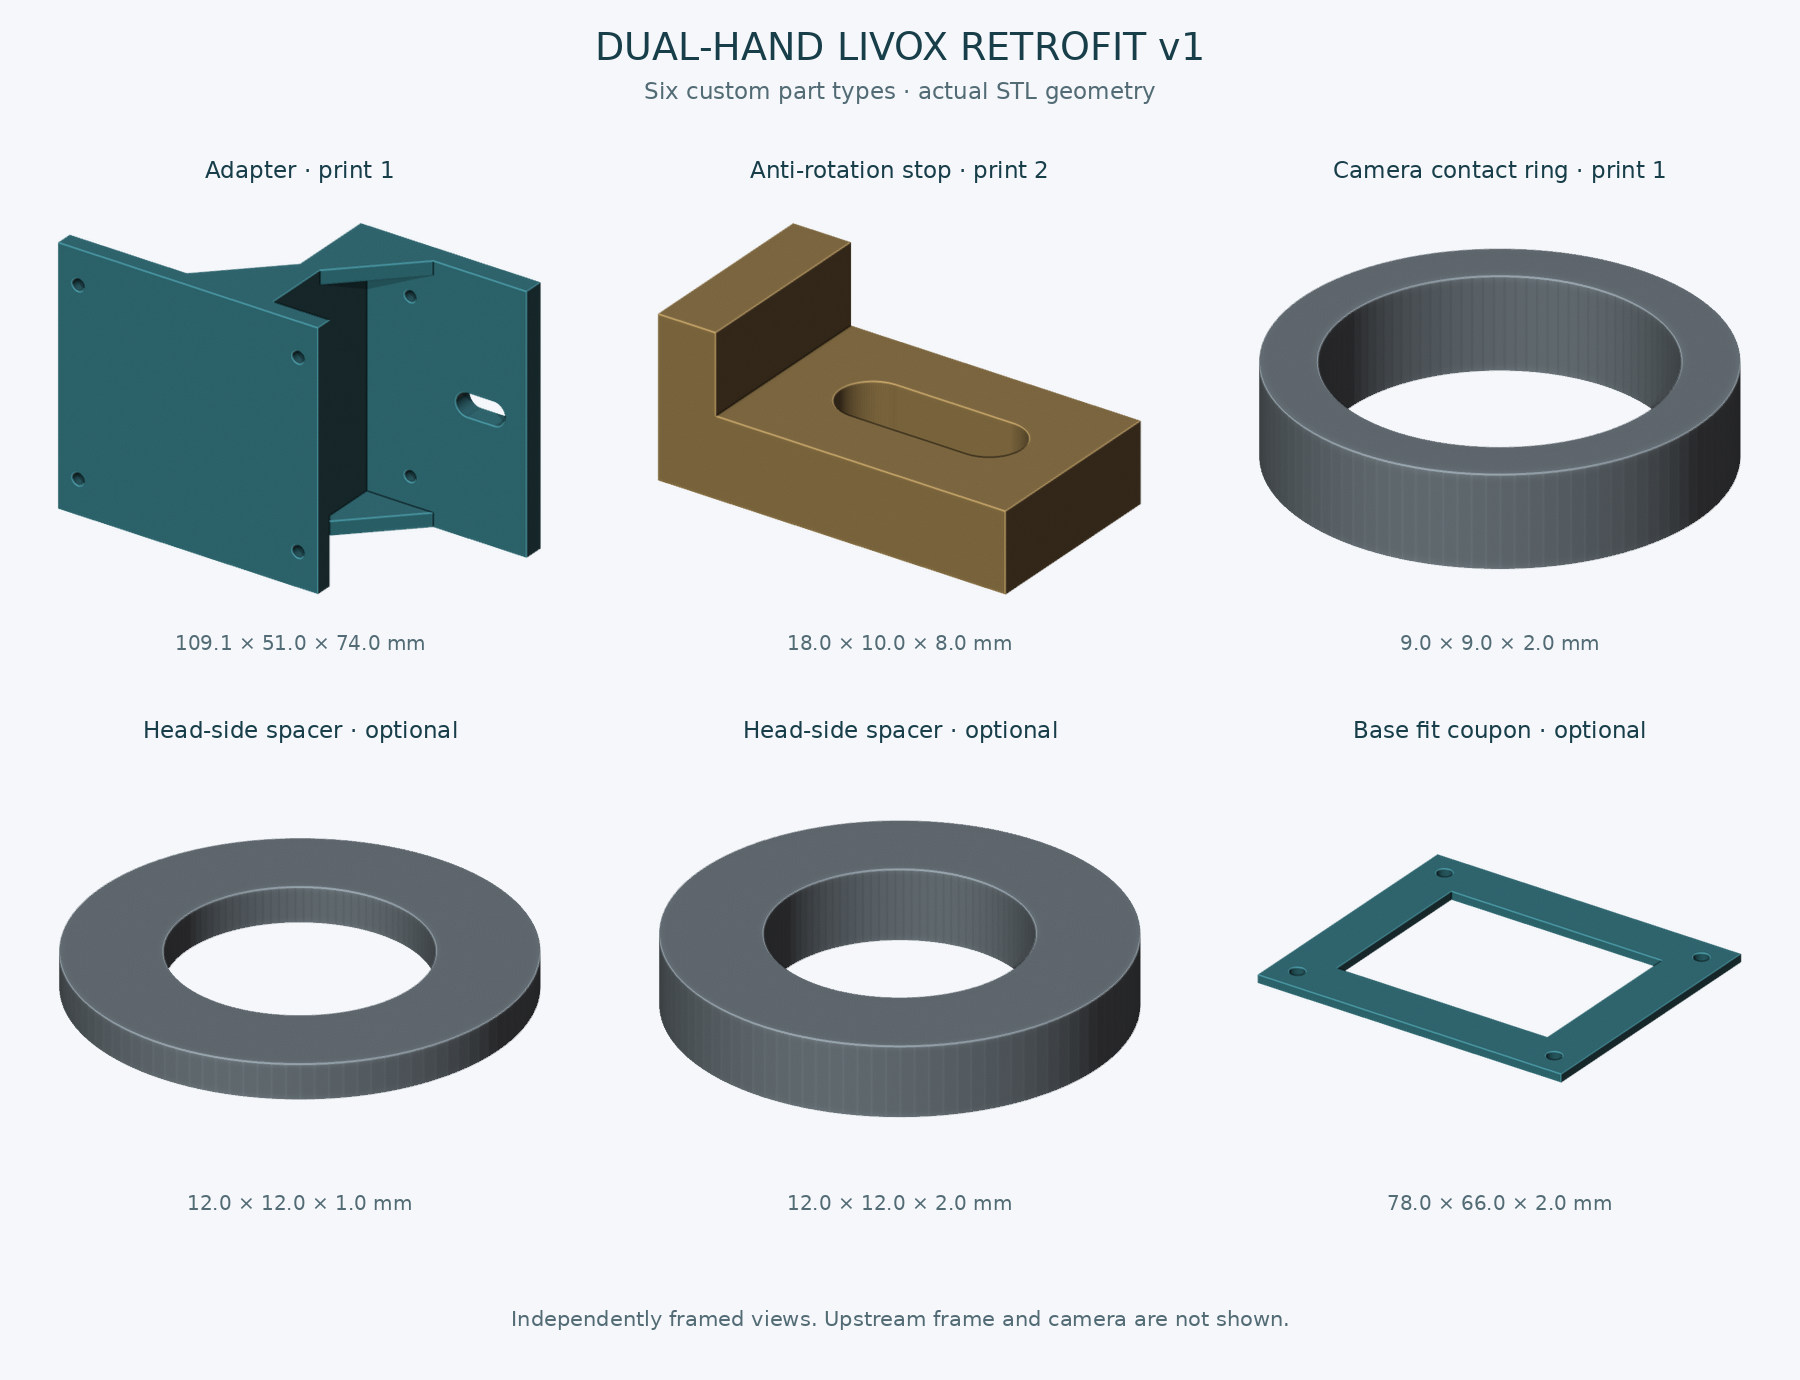
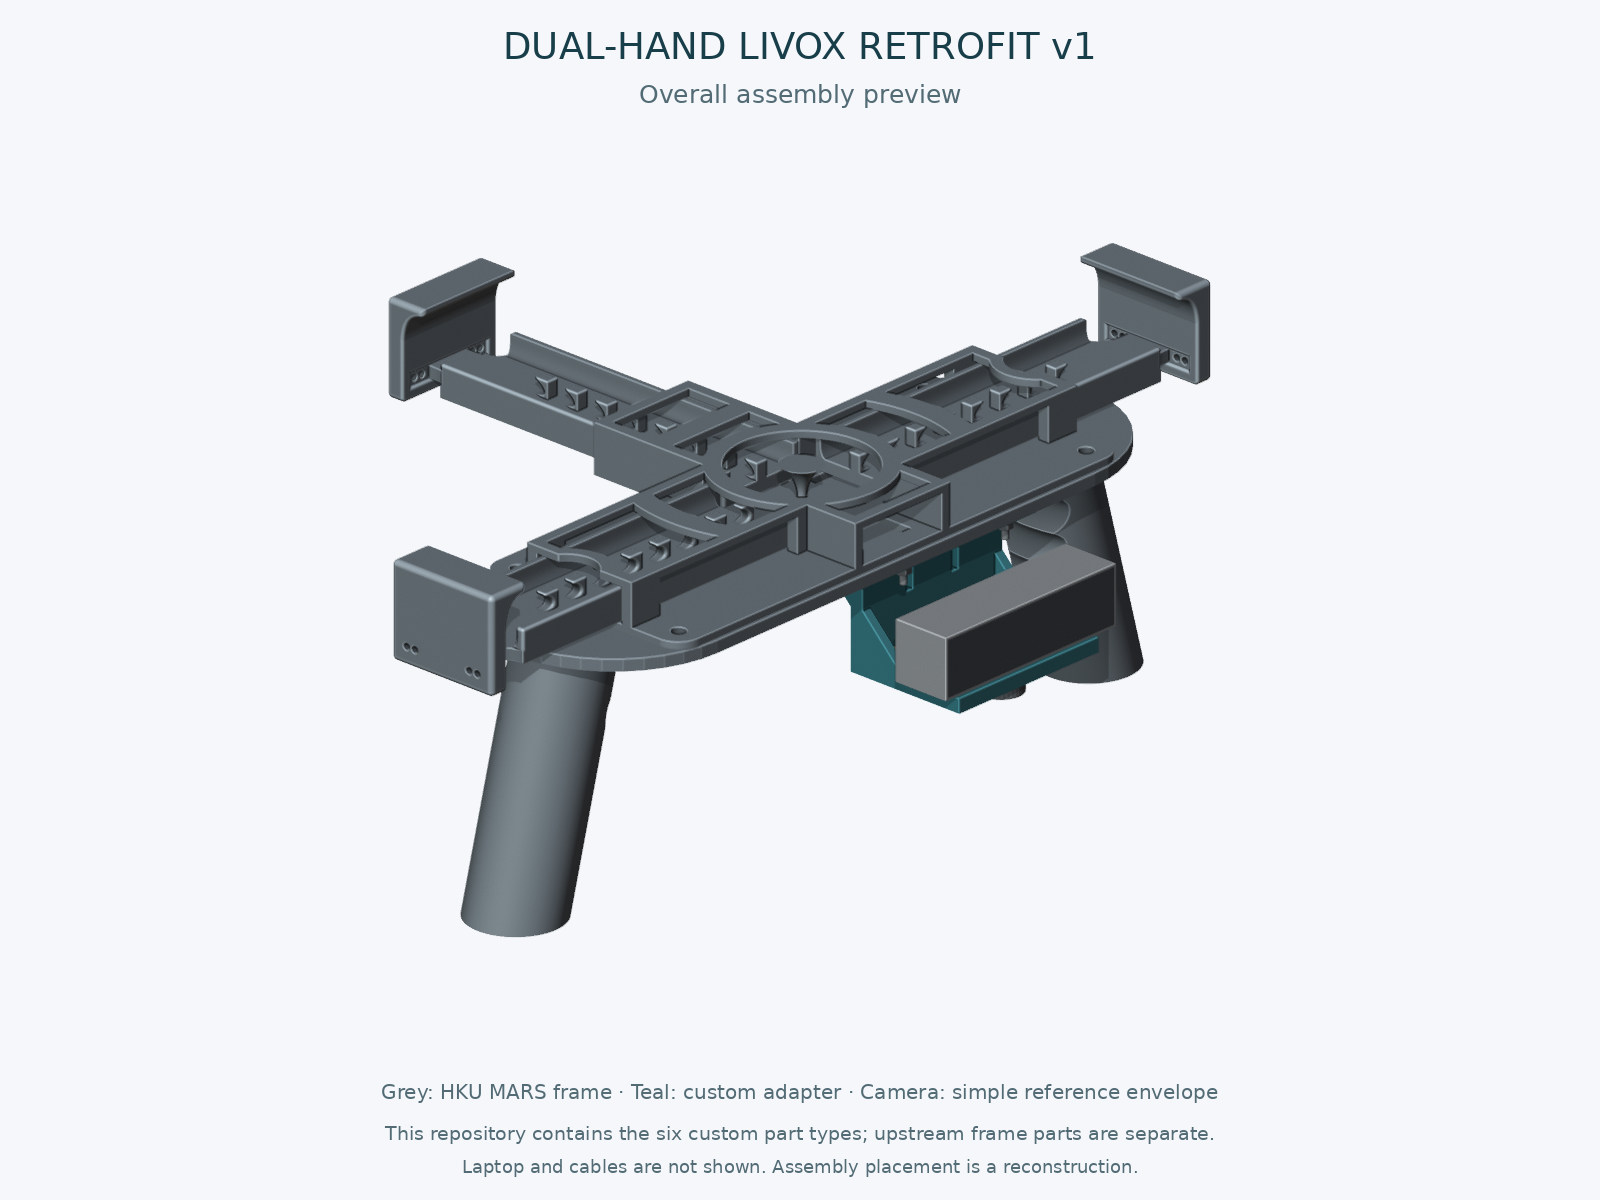
Show complete dual-hand assembly in model preview

diff --git a/README.md b/README.md
@@ -8,9 +8,9 @@
 | [单手空间动捕架](mounts/single_hand_spatial_v2) | v2 · 2026-10-10 | 5种，共打印9件；主框架154.4×157×20 mm | 单手握柄与5个可换点座；待实物验证的空间点阵原型 |
 | [笔记本 B1 双夹](mounts/laptop_b1) | B1 · 2026-10-11 | 3种；主件1、压脚2，另有可选试片；主件153.5×173×134 mm | 面向MateBook EMF-16的D435i夹架；尚未实装精配 |
 
-## 双手款：6种自制适配件
+## 双手款：整体装配预览
 
-![双手款自制零件实际STL预览](images/dual_hand_custom_parts.jpg)
+![双手Livox改装整体装配预览](images/dual_hand_custom_parts.jpg)
 
 ## 单手款：空间动捕架 v2
 
